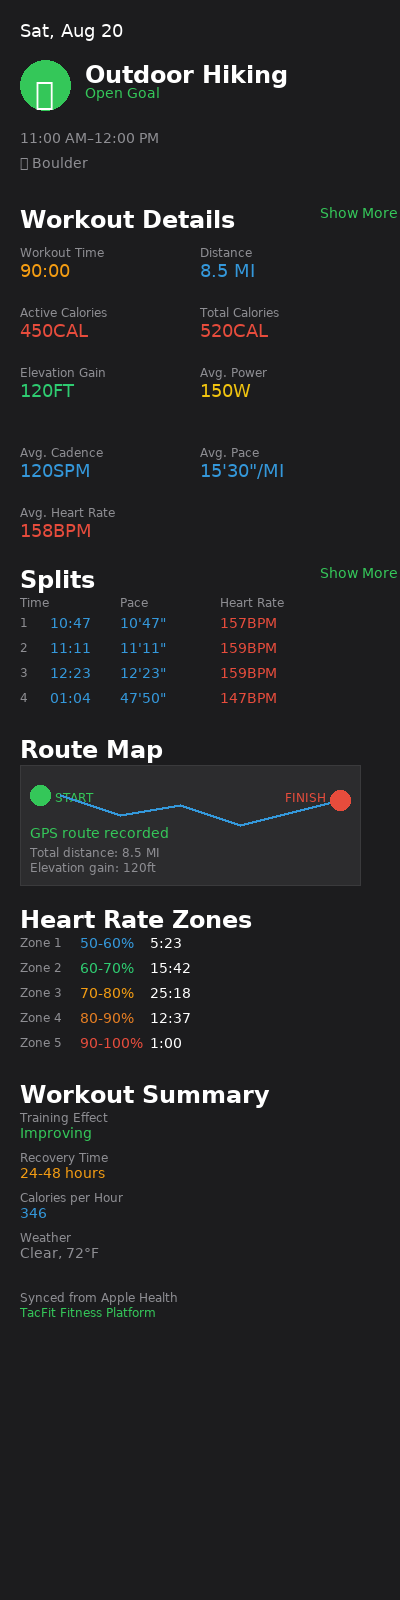
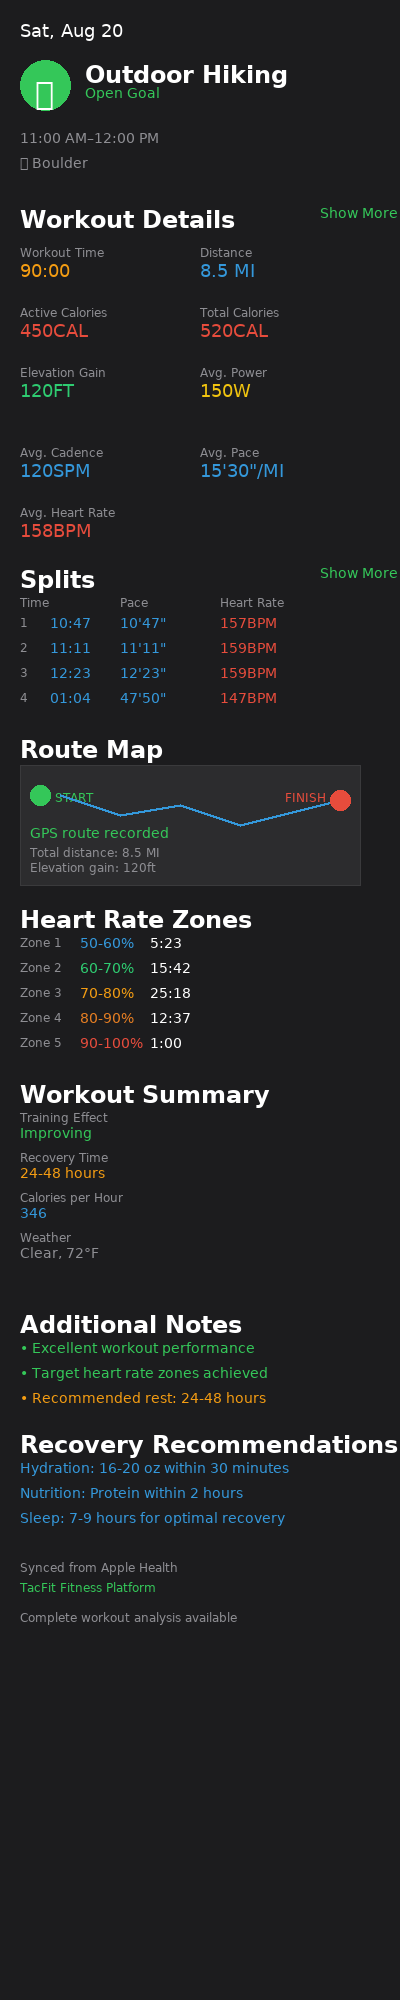
Expand workout detail images and add recovery recommendations
Increase image height in `create_workout_details.py` to 2000px and add new sections for "Additional Notes" and "Recovery Recommendations", updating the footer text and image dimensions.

Replit-Commit-Author: Agent
Replit-Commit-Session-Id: c8b0075e-97b0-4944-88eb-ba3329075c77
Replit-Commit-Checkpoint-Type: full_checkpoint
Replit-Commit-Screenshot-Url: https://storage.googleapis.com/screenshot-production-us-central1/52c3692b-e3ae-4f26-87b1-b5a765544cd7/c8b0075e-97b0-4944-88eb-ba3329075c77/PoYcBWb

diff --git a/create_workout_details.py b/create_workout_details.py
@@ -5,7 +5,7 @@ import os
 def create_workout_details_page(workout_data):
     """Create a comprehensive workout details page similar to Apple Fitness"""
     # Create a much taller dark-themed image to show everything
-    width, height = 400, 1600
+    width, height = 400, 2000
     img = Image.new('RGB', (width, height), '#1c1c1e')
     draw = ImageDraw.Draw(img)
     
@@ -180,10 +180,33 @@ def create_workout_details_page(workout_data):
         draw.text((20, y_pos + 15), value, fill=color, font=font_small)
         y_pos += 40
     
-    # Footer
-    y_pos += 20
+    # Footer section with more spacing
+    y_pos += 40
+    draw.text((20, y_pos), "Additional Notes", fill='#ffffff', font=font_title)
+    y_pos += 30
+    draw.text((20, y_pos), "• Excellent workout performance", fill='#34c759', font=font_small)
+    y_pos += 25
+    draw.text((20, y_pos), "• Target heart rate zones achieved", fill='#34c759', font=font_small)
+    y_pos += 25
+    draw.text((20, y_pos), "• Recommended rest: 24-48 hours", fill='#f39c12', font=font_small)
+    y_pos += 40
+    
+    # Recovery recommendations
+    draw.text((20, y_pos), "Recovery Recommendations", fill='#ffffff', font=font_title)
+    y_pos += 30
+    draw.text((20, y_pos), "Hydration: 16-20 oz within 30 minutes", fill='#3498db', font=font_small)
+    y_pos += 25
+    draw.text((20, y_pos), "Nutrition: Protein within 2 hours", fill='#3498db', font=font_small)
+    y_pos += 25
+    draw.text((20, y_pos), "Sleep: 7-9 hours for optimal recovery", fill='#3498db', font=font_small)
+    y_pos += 50
+    
+    # Final footer
     draw.text((20, y_pos), "Synced from Apple Health", fill='#8e8e93', font=font_tiny)
-    draw.text((20, y_pos + 15), "TacFit Fitness Platform", fill='#34c759', font=font_tiny)
+    y_pos += 20
+    draw.text((20, y_pos), "TacFit Fitness Platform", fill='#34c759', font=font_tiny)
+    y_pos += 30
+    draw.text((20, y_pos), "Complete workout analysis available", fill='#8e8e93', font=font_tiny)
     
     return img
 
